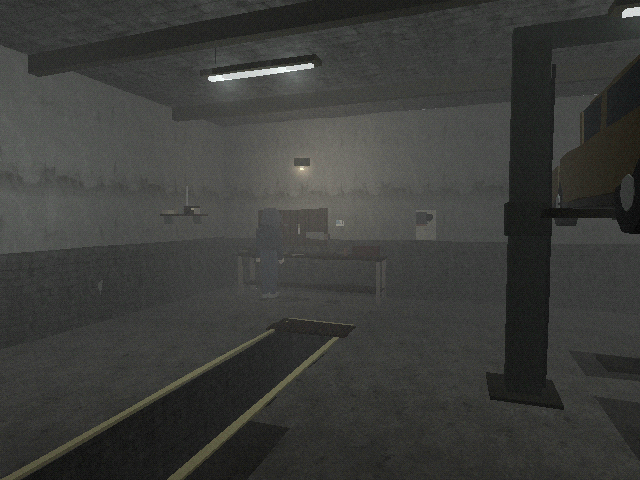
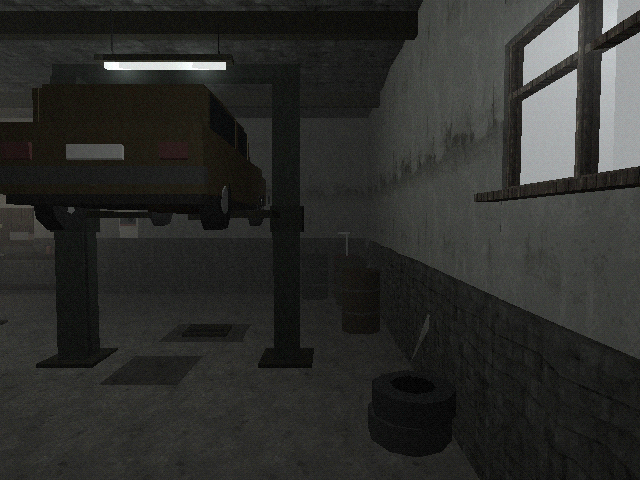
Polish the inn, its endings, and the interior windows
Room 3 and the stübli get warmer light, the café is dark on the third evening and at night the torch is on. The newspaper page prints the player's own Polaroid and the last screen returns to the title. fogWindow's facing now follows the yaw convention, so the laiterie's windows face into the room; the garage's haze is thinner. Screenshots of every inn state.

diff --git a/src/levels/inn/endingScreens.ts b/src/levels/inn/endingScreens.ts
@@ -8,9 +8,6 @@ import type { SceneContext } from '../../game/scene';
  * plays `leave`.
  */
 
-/** Where "Return to the title" goes. There is no title scene yet, so the game starts again at home. */
-const TITLE_SCENE = 'home';
-
 const INK = '#1c1b18';
 
 function el<K extends keyof HTMLElementTagNameMap>(tag: K, css: string, text?: string): HTMLElementTagNameMap[K] {
@@ -49,7 +46,7 @@ const holds = (passage: Passage, ctx: SceneContext) => checkStory(passage.if, ct
 function newspaperPage(ctx: SceneContext, article: Article): HTMLElement {
   const page = el(
     'div',
-    `position:absolute;inset:0;background:#c9c4b6;color:${INK};padding:18px 26px;font-family:Georgia,'Times New Roman',serif;overflow:hidden`,
+    `position:absolute;inset:0;background:#c9c4b6;color:${INK};padding:18px 26px 34px;font-family:Georgia,'Times New Roman',serif;overflow:hidden;text-shadow:none;display:flex;flex-direction:column`,
   );
   page.append(
     el('div', 'font-size:34px;font-weight:bold;letter-spacing:2px;text-align:center;border-bottom:3px double #1c1b18;line-height:1.1', "L'ÉCHO"),
@@ -59,13 +56,18 @@ function newspaperPage(ctx: SceneContext, article: Article): HTMLElement {
   page.append(el('div', 'font-size:22px;font-weight:bold;line-height:1.1;margin:2px 0 4px', article.headline));
   if (article.subhead) page.append(el('div', 'font-size:12px;font-style:italic;margin-bottom:8px', article.subhead));
 
-  const body = el('div', 'column-count:3;column-gap:14px;font-size:10px;line-height:1.32;text-align:justify');
+  // The columns fill top to bottom, as a printed page does.
+  const body = el('div', 'flex:1;min-height:0;column-count:3;column-fill:auto;column-gap:14px;column-rule:1px solid #8a867c;font-size:11.5px;line-height:1.3;text-align:justify');
   const photo = article.photos?.find((p) => ctx.state.hasItem(p.item));
   if (photo) {
     const figure = el('div', 'break-inside:avoid;margin-bottom:6px');
     // A halftone: grey dots on newsprint, the Polaroid as the press made it.
+    // The reporter's own Polaroid when the save has it; the mask alone otherwise.
+    const print = ctx.state.photo(photo.item)?.image;
+    const mask = photo.item === 'photo_marc_masked' || photo.item === 'photo_marc_forced';
+    const subject = print ? `url(${print}) center/cover no-repeat,` : mask ? 'url(assets/textures/gas_mask.png) center/auto 92% no-repeat,' : '';
     figure.append(
-      el('div', 'height:96px;background:radial-gradient(circle,#2a2925 38%,transparent 42%) 0 0/4px 4px,#8a867c;filter:contrast(1.2)'),
+      el('div', `height:110px;background:radial-gradient(circle,#2a2925 38%,transparent 42%) 0 0/4px 4px,${subject}#8a867c;filter:grayscale(1) contrast(1.2)`),
       el('div', 'font-size:9px;font-style:italic;margin-top:2px', photo.caption),
     );
     body.append(figure);
@@ -91,13 +93,13 @@ function creditsScreen(): HTMLElement {
   return screen;
 }
 
-/** Plays the ending's pages, epilogue, and last screen, then starts the game again. */
+/** Plays the ending's pages, epilogue, and last screen, then returns to the title screen. */
 export async function playEnding(ctx: SceneContext, which: keyof typeof endings): Promise<void> {
   const ending: Ending = endings[which];
   const article = ending.articles.find((a) => checkStory(a.if, ctx.state));
   if (article) await showUntilConfirmed(ctx, newspaperPage(ctx, article), 4);
   for (const passage of ending.epilogue.filter((p) => holds(p, ctx))) await showUntilConfirmed(ctx, blackScreen(passage.text), 2.5);
   await showUntilConfirmed(ctx, creditsScreen(), 3, 'Return to the title');
-  ctx.state.restore({ scene: TITLE_SCENE, time: 'night', flags: [], inventory: [], counts: {}, player: { x: 0, y: 0, z: 0, yaw: 0 } });
-  ctx.goTo(TITLE_SCENE);
+  // The title is shown before any scene loads; starting the page again without `?scene=` brings it back.
+  location.assign(location.pathname);
 }

diff --git a/src/levels/inn/stubli.ts b/src/levels/inn/stubli.ts
@@ -54,6 +54,12 @@ export function buildStubli(kit: LevelKit, dressing: InnDressing, props: StubliP
   kit.cylinder({ r: 0.045, h: 0.02, sides: 10 }).color(0x8a8070).at(PHONE.x + 0.03, PHONE.y - 0.04, PHONE.z + 0.04);
   kit.box({ w: 0.24, h: 0.32, d: 0.01 }).texture('tiles_white', { tile: 0.3 }).color(0xd0c8b0).at(PHONE.x + 0.32, PHONE.y - 0.3, z0 + 0.09);
 
+  // A framed print of the church in summer over the desk, and the brewery's calendar.
+  kit.box({ w: 0.04, h: 0.42, d: 0.56 }).color(0x3a2a1c).at(x0 + 0.1, 1.45, DESK.z);
+  kit.box({ w: 0.01, h: 0.34, d: 0.48 }).texture('church_stone', { tile: 0.5 }).color(0x9aa08a).at(x0 + 0.125, 1.49, DESK.z);
+  kit.box({ w: 0.01, h: 0.5, d: 0.34 }).texture('tiles_white', { tile: 0.4 }).color(0xd0c8b0).at(x0 + 0.09, 1.2, z1 - 0.6);
+  kit.box({ w: 0.012, h: 0.16, d: 0.34 }).color(0x8a2a24).at(x0 + 0.09, 1.56, z1 - 0.6);
+
   computerDesk(kit, dressing, props.useComputer);
   pendantLamp(kit, { x: x0 + 2.2, y: h, z: z0 + 1.2 }, { on: !night, intensity: 1.5, range: 5, drop: 0.45 });
 }

diff --git a/src/levels/laiterie/shell.ts b/src/levels/laiterie/shell.ts
@@ -30,8 +30,8 @@ export function buildShell(kit: LevelKit, night: boolean): void {
   skirting(kit, [DAIRY_EDGE, z0 + inner], [x1, z0 + inner]);
   skirting(kit, [x1 - inner, z0], [x1 - inner, z1]);
 
-  fogWindow(kit, { x: SHOP_WINDOW.x, z: z1, facing: 180, w: SHOP_WINDOW.w, h: SHOP_WINDOW.h, y: SHOP_WINDOW.y, night, lamp: true });
-  fogWindow(kit, { x: x0, z: SIDE_WINDOW.z, facing: 90, w: SIDE_WINDOW.w, h: SIDE_WINDOW.h, y: SIDE_WINDOW.y, night });
+  fogWindow(kit, { x: SHOP_WINDOW.x, z: z1, facing: 0, w: SHOP_WINDOW.w, h: SHOP_WINDOW.h, y: SHOP_WINDOW.y, night, lamp: true });
+  fogWindow(kit, { x: x0, z: SIDE_WINDOW.z, facing: -90, w: SIDE_WINDOW.w, h: SIDE_WINDOW.h, y: SIDE_WINDOW.y, night });
 
   // Shut at night: the bulbs hang dark.
   const lamp = (x: number, z: number, intensity: number) => pendantLamp(kit, { x, y: h, z }, { on: !night, intensity, range: 5, drop: 0.55, color: 0xffb860 });

diff --git a/src/levels/garage_dousse/index.ts b/src/levels/garage_dousse/index.ts
@@ -28,7 +28,7 @@ export const garageScene = defineScene({
   },
   atmosphere: {
     day: {
-      fog: { color: 0x6c706e, near: 3, far: 17, density: 0.035, wisps: 0.15 },
+      fog: { color: 0x3c3e3c, near: 5, far: 20, density: 0.015, wisps: 0.05 },
       ambient: 0x4c4e4c,
       saturation: 0.5,
       flashlight: false,
